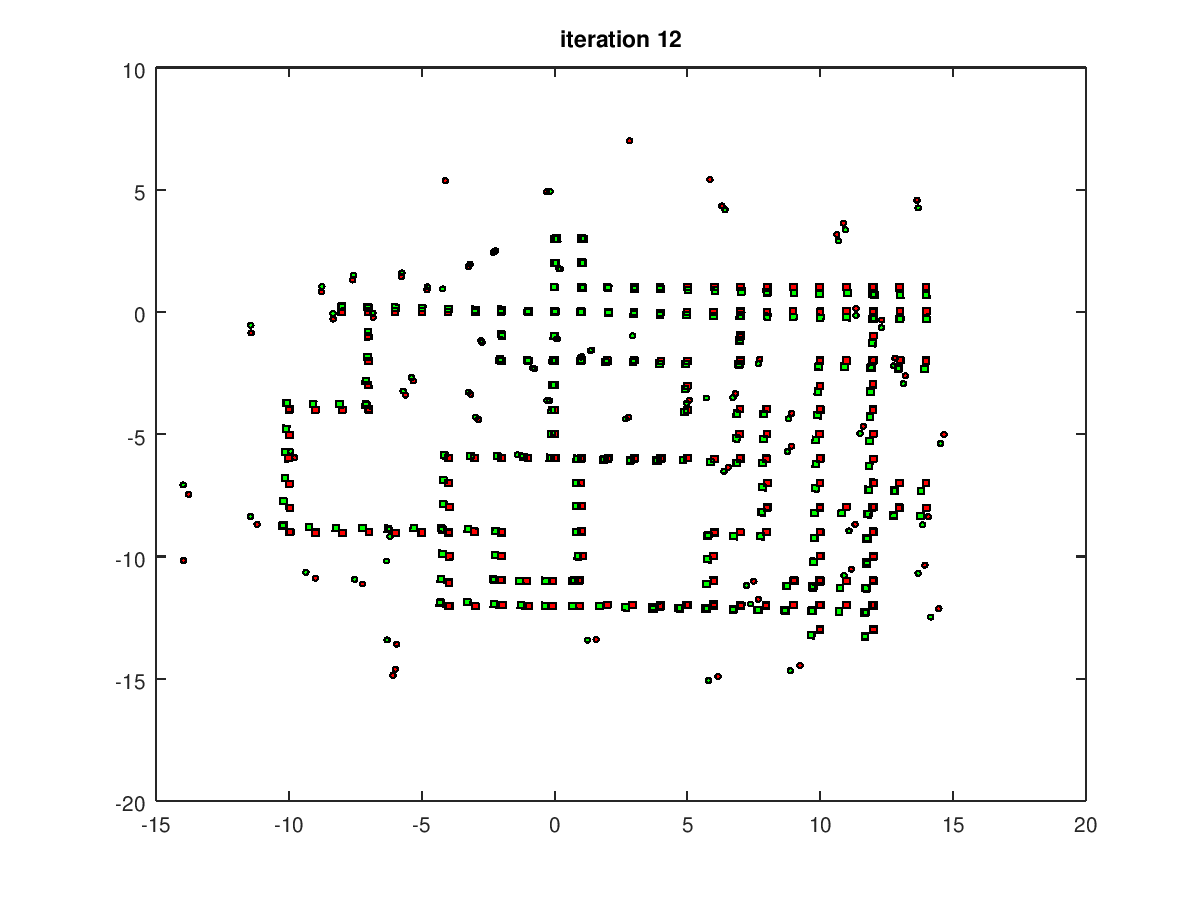
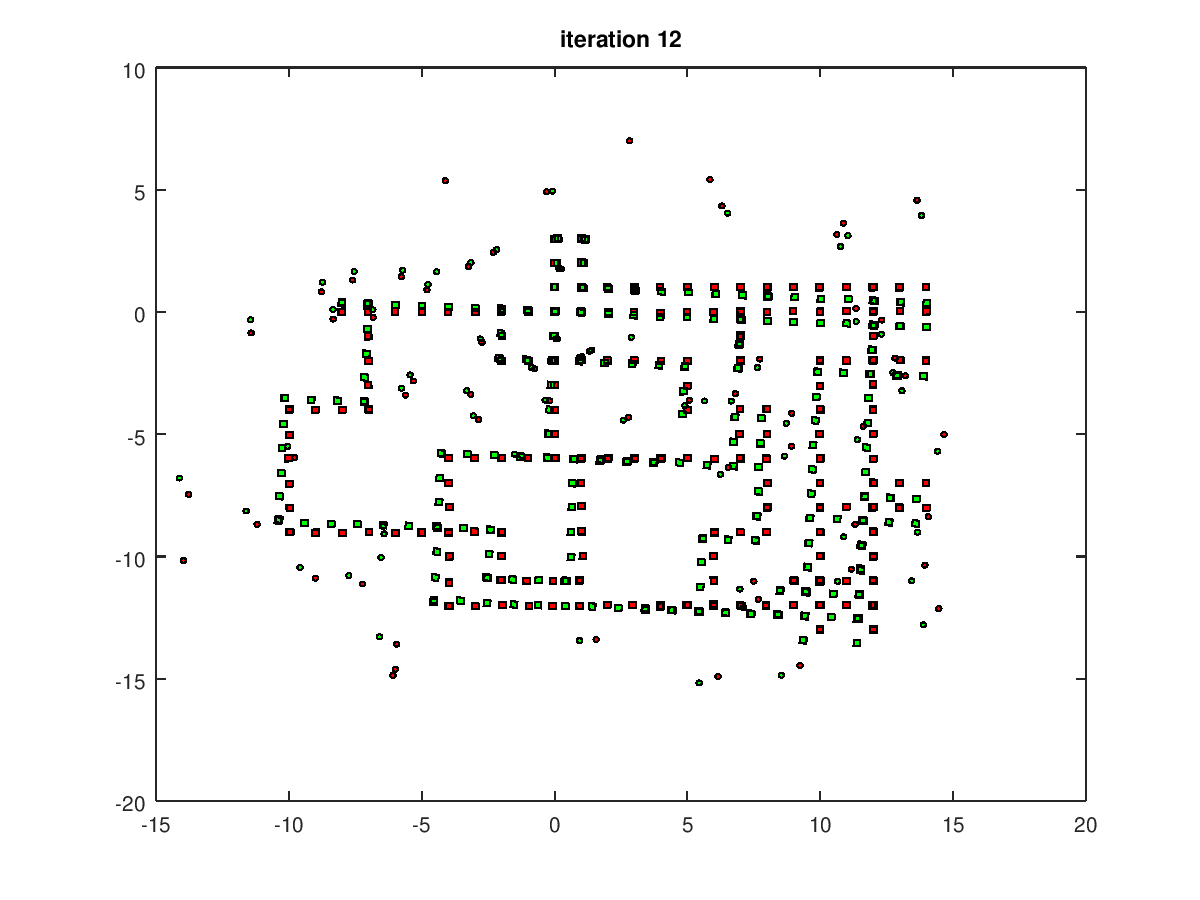
last commit

diff --git a/main.m b/main.m
@@ -15,6 +15,8 @@ source "./tools_grisetti/utilities/geometry_helpers_2d.m"
 damping=1;
 kernel_threshold=1;
 num_iterations=20;
+omega_range = 1e3;
+omega_pose = 1e3*eye(3);
 
 %indexes to IDs
 pose_IDs= get_poseIDs(poses_gt);
@@ -34,9 +36,7 @@ landmarks_guess = landmarks_compute_guess(poses_guess,observations,land_IDs);
 landmark_associations = landmark_associations(pose_IDs,observations,land_IDs);
 pose_associations = pose_associations(transitions,pose_IDs,land_IDs);
 
-% compute certainty of measurements by looking at the groundtruth and the measurements
-omega_range = compute_range_omega(landmark_associations,landmarks_gt, poses_gt)
-omega_pose = compute_pose_omega(pose_associations, poses_gt);
+
 
 % total least squares
 [XR_history,XL_history,H,b,chi_history_pose,chi_history_land,num_inliers_history_pose,num_inliers_history_land]=Total_LS(XR,XL,landmark_associations,
